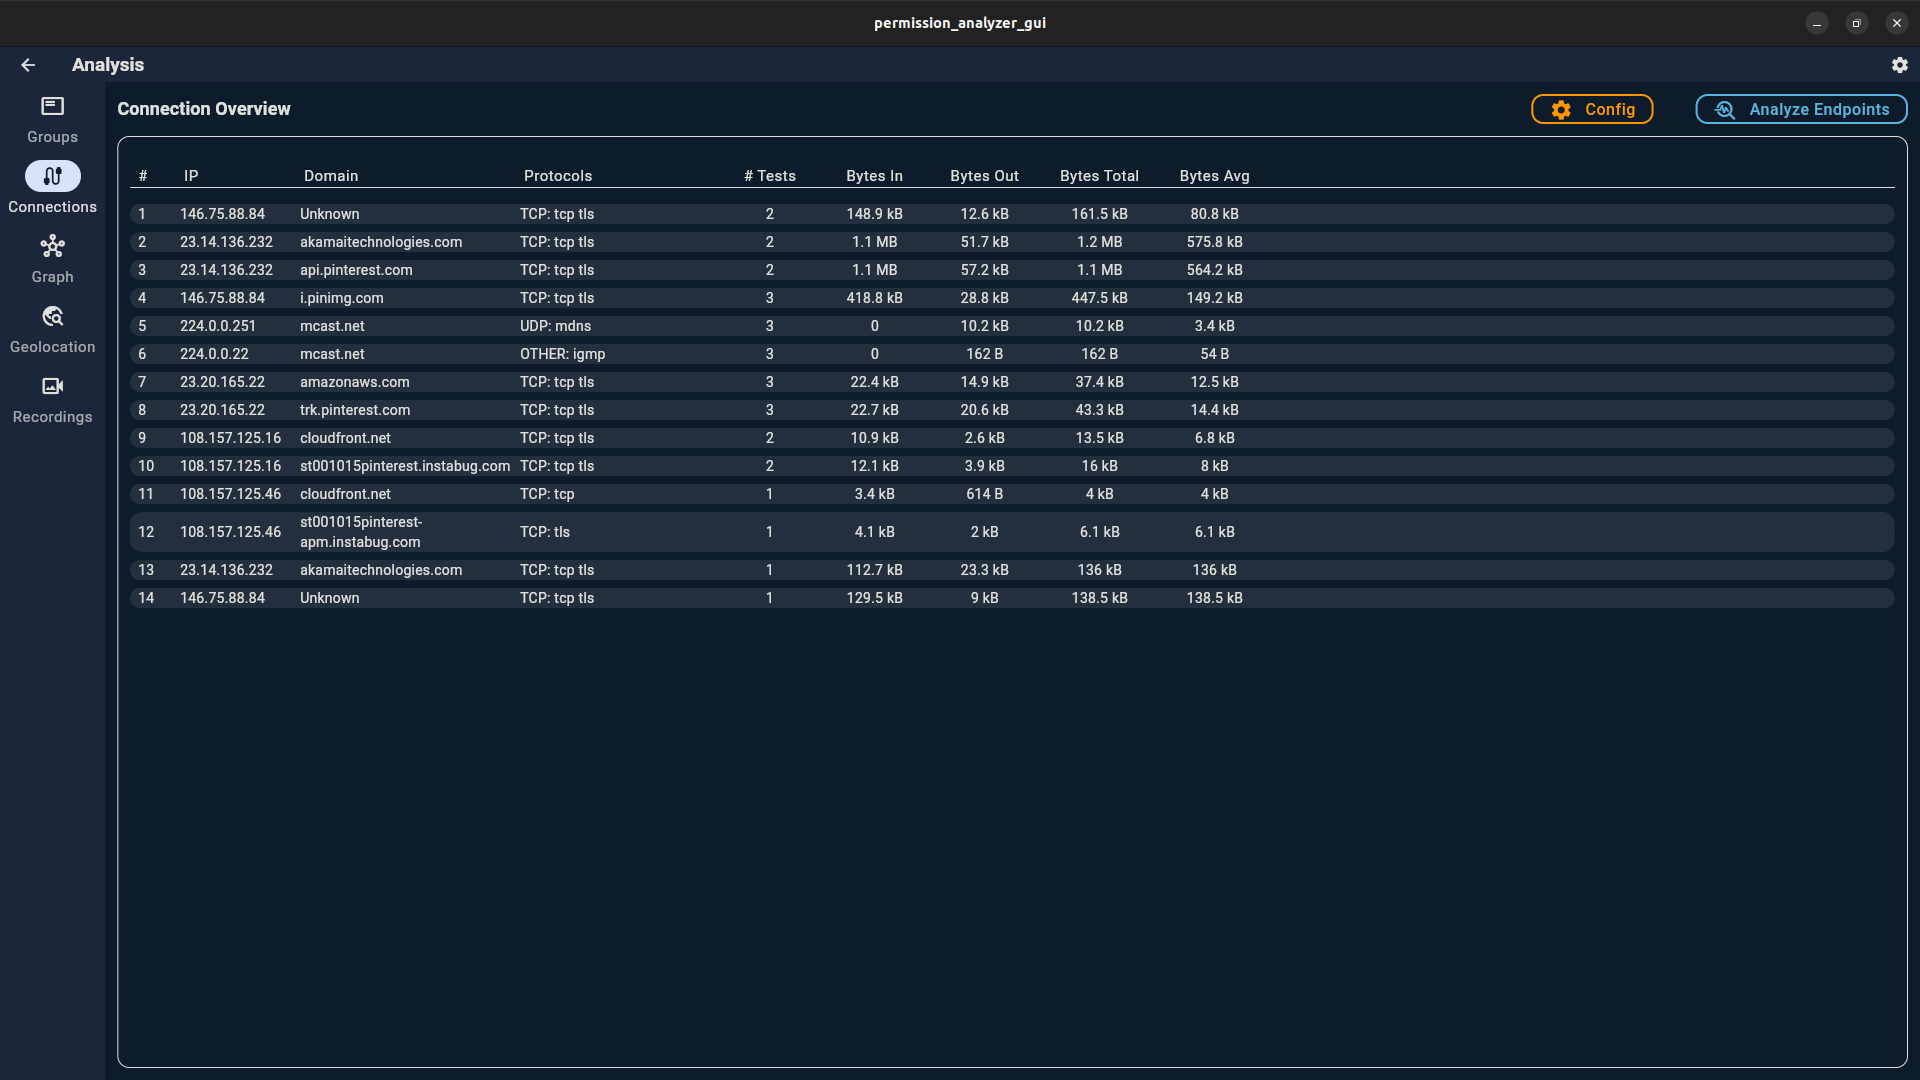
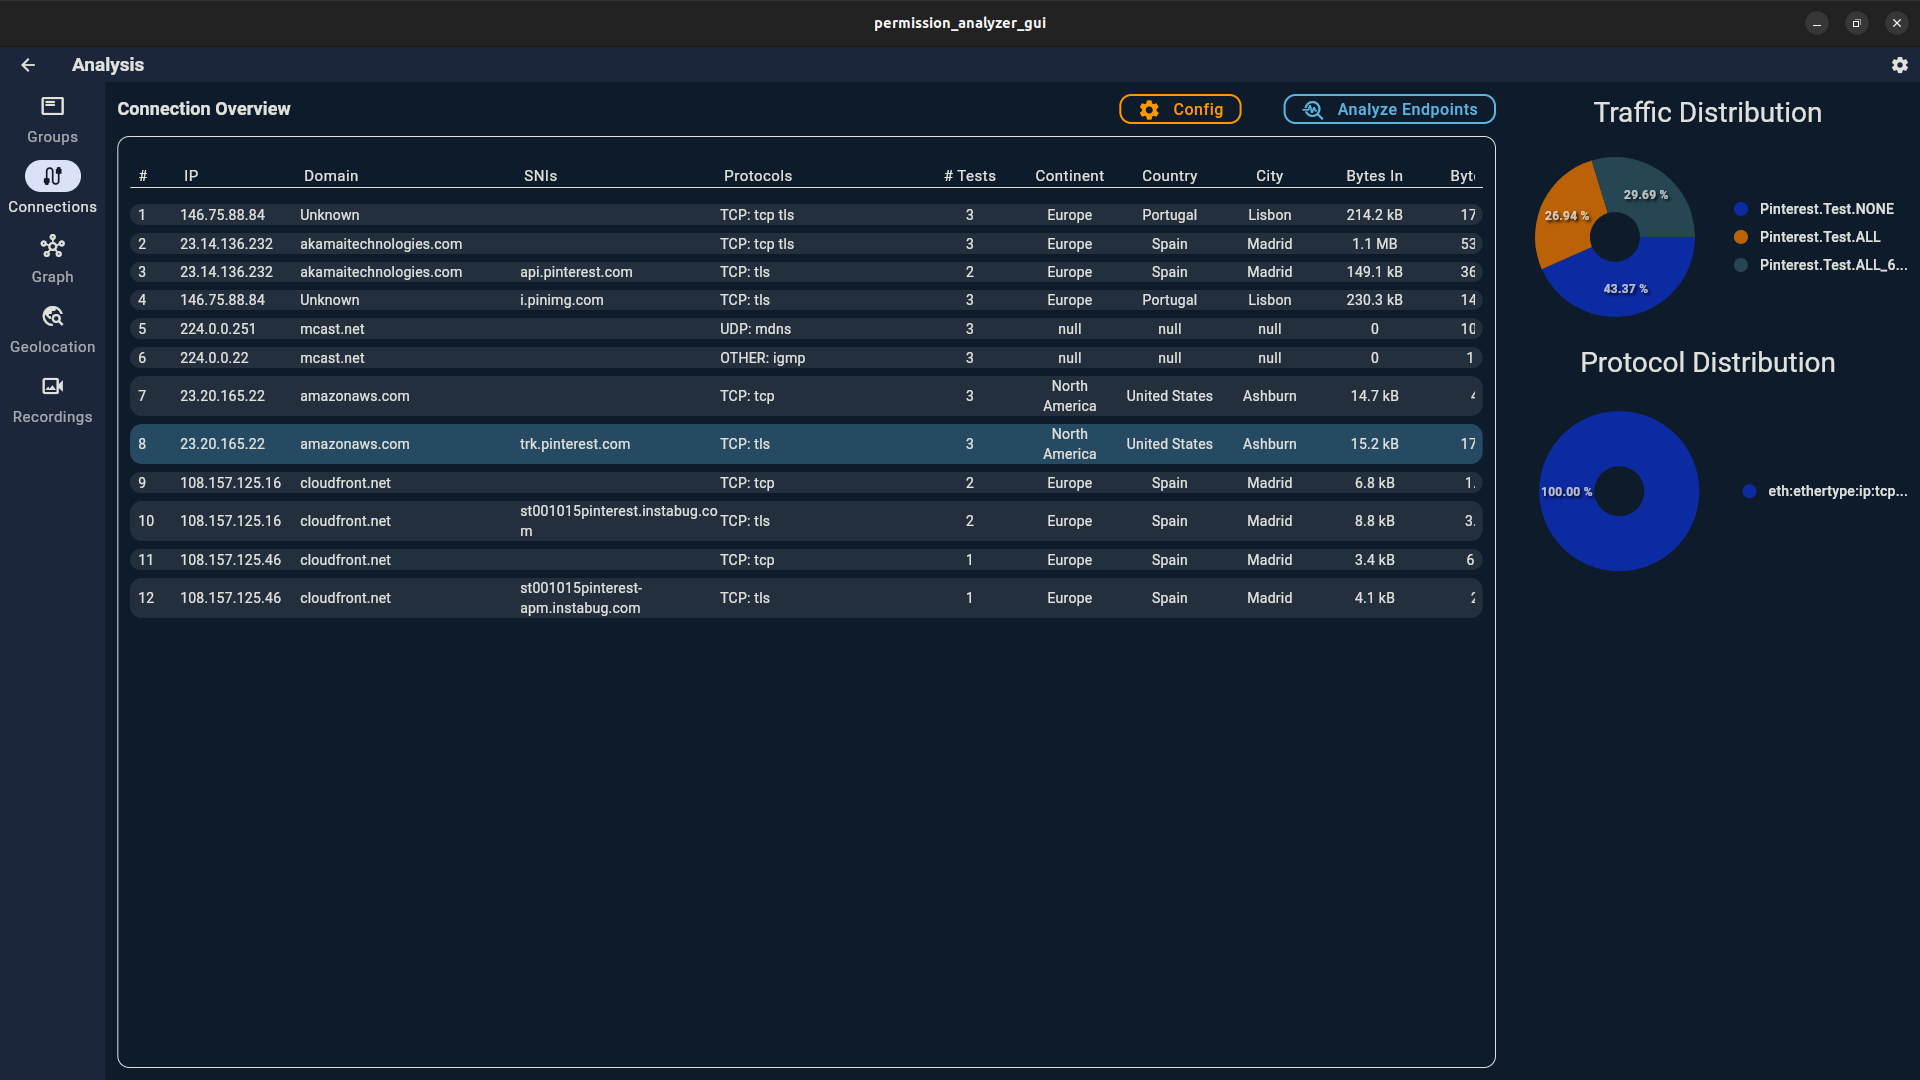
fix some bad numbers and add a line to the readme

diff --git a/lib/common/logic/tools/traffic_analyzer.dart b/lib/common/logic/tools/traffic_analyzer.dart
@@ -99,7 +99,7 @@ class TrafficAnalyzer {
       tests.addAll(group.tests);
     }
     return getConnectionsFromTestRuns(
-      tests,
+      tests.distinctBy((t) => t.id),
       filtered: filtered,
       grouped: grouped,
     );
@@ -113,15 +113,16 @@ class TrafficAnalyzer {
     Map<String, NetworkConnection> connectionsMap = {};
     for (var test in tests) {
       for (NetworkConnection connection in test.connections) {
-        if (!connectionsMap.containsKey(connection.flow)) {
+        String key = "${connection.ip}:${connection.serverName}";
+        if (!connectionsMap.containsKey(key)) {
           // create copy of connection
-          connectionsMap[connection.flow] = connection.copy;
-          connectionsMap[connection.flow]!.testRuns = [test];
+          connectionsMap[key] = connection.copy;
+          connectionsMap[key]!.testRuns = [test];
         } else {
           // aggregate connection
-          NetworkConnection tc = connectionsMap[connection.flow]!;
+          NetworkConnection tc = connectionsMap[key]!;
           tc.packets.addAll(
-              test.packets.where((p) => p.ipSrc == tc.ip || p.ipDst == tc.ip));
+              test.packets.where((p) => (p.ipSrc == tc.ip || p.ipDst == tc.ip) && p.serverName == tc.serverName));
           if (!tc.testRuns.any((tr) => tr.id == test.id)) {
             tc.testRuns.add(test);
           }

diff --git a/lib/data/models/network_connection.dart b/lib/data/models/network_connection.dart
@@ -15,7 +15,7 @@ abstract class INetworkConnection {
   String get serverNamesString => serverNames.join("\n");
   String get wiresharkFilter => "(${ips.map((ip) => "ip.addr == $ip").join(" or ")}) and (${protocols.map((p) => p.split(":").lastOrNull).nonNulls.join(" or ")})";
   String get protocolsString => _protocolsString;
-  String get flow => "(${endpoint.ip}; ${serverNamesString.replaceAll("\n", "")}; ${ports.join(",")}; ${protocolsString.replaceAll("\n", ",")})";
+  String get flow => "(${endpoint.ip}; ${serverNamesString.replaceAll("\n", "")}); ${ports.join(",")}; ${protocolsString.replaceAll("\n", ",")})";
   List<NetworkConnection> get connections;
 
   INetworkConnection get copy;

diff --git a/lib/features/analysis/widgets/connection_overview/connection_overview.dart b/lib/features/analysis/widgets/connection_overview/connection_overview.dart
@@ -63,11 +63,6 @@ class _ConnectionOverviewState extends State<ConnectionOverview> {
                         connection: state.selectedConnection!),
                     ProtocolDistributionChart(
                         connection: state.selectedConnection!),
-                    // Expanded(
-                    //   child: ConnectionTrafficOverview(
-                    //     state.selectedConnection!,
-                    //   ),
-                    // ),
                   ],
                 ),
               ),

diff --git a/README.md b/README.md
@@ -105,6 +105,7 @@ In this table, you will find detailed information about the observed connections
 Click 'Analyze Endpoints' to fetch data like DNS, Geolocation and WhoIs records.
 (Tip: this will only query the endpoints that have not been analyzed. Right-click, to force analyzing ALL endpoints)
 By right-clicking an entry of the table, you can show the whois record and copy a filter to use in Wireshark to show only the packets corresponding to that connection.
+Selecting a connection in the table will show a chart with the distribution of the traffic load among the selected Traffic Groups and the different protocols. 
 
 Use the 'Config' view to customize the table and also group the connections.
 Grouping connections will combine all connections with the same server name (SNI), domain or IP range x.y.z.0/24.
